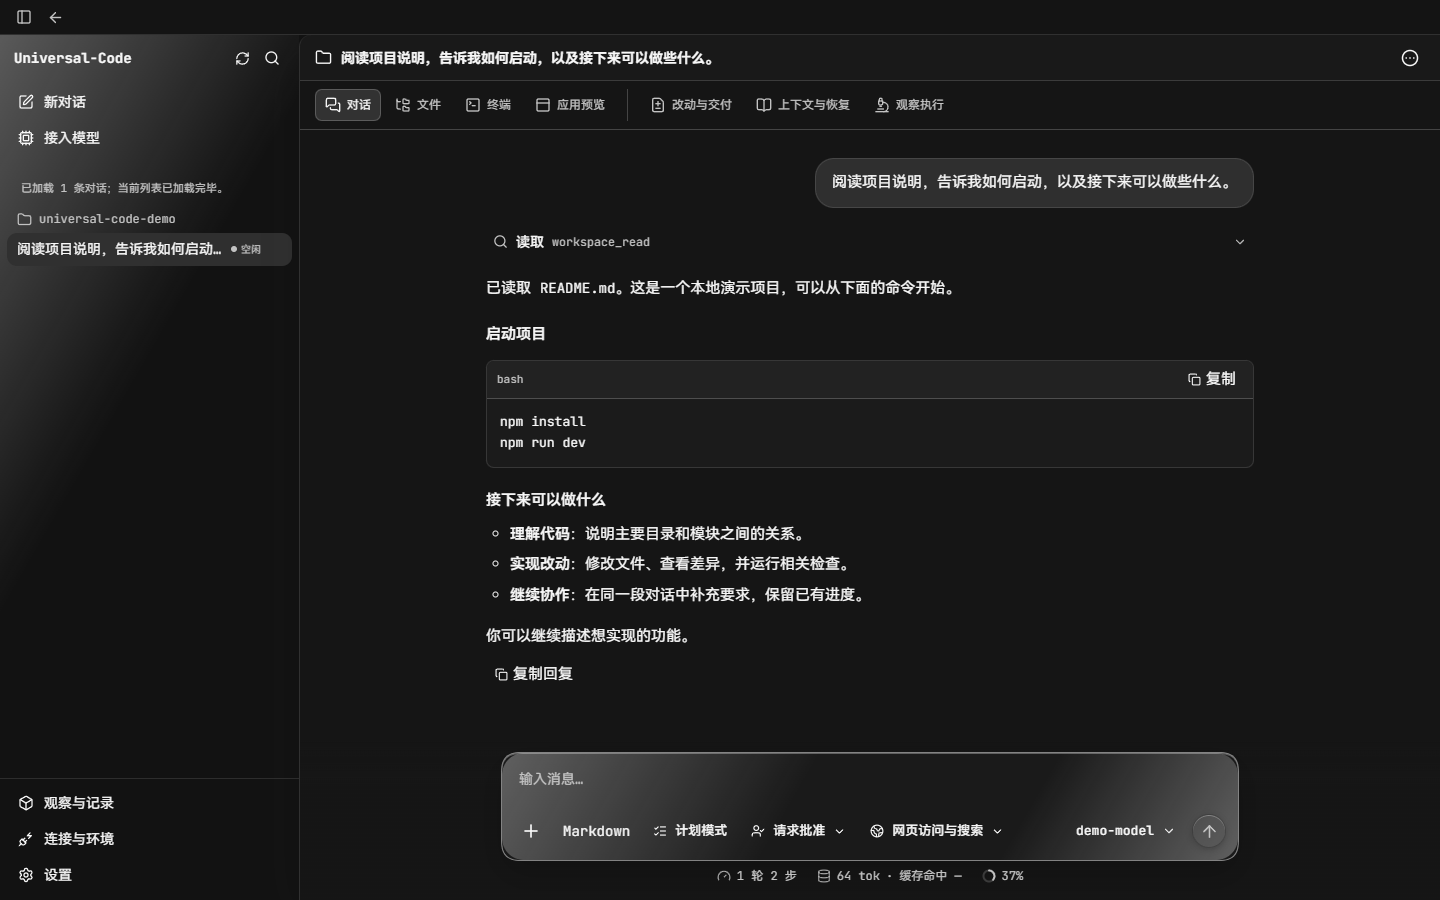
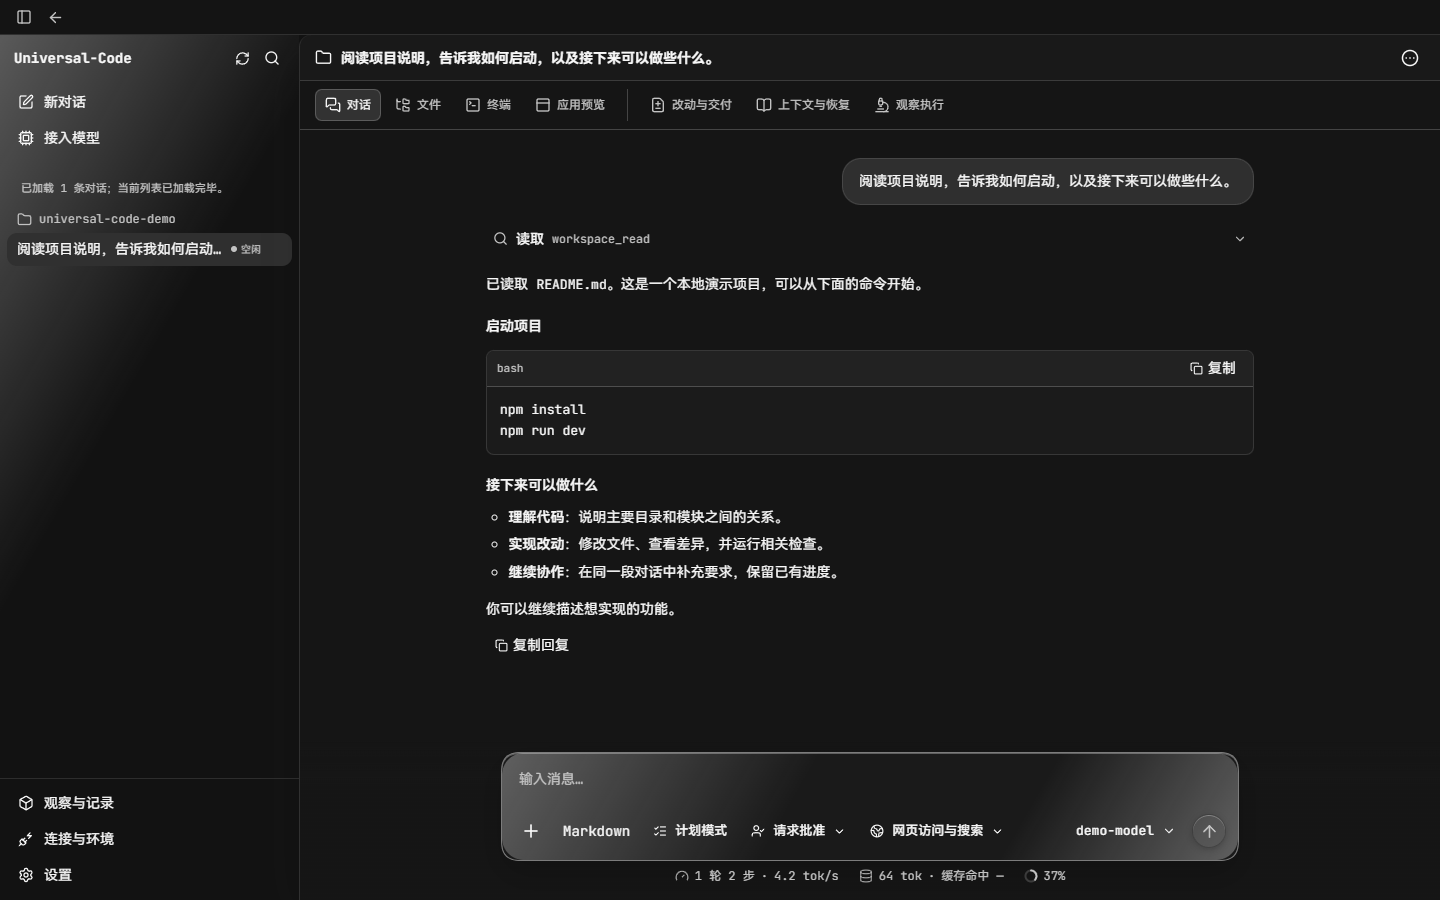
feat(chat): tighten typography and soften streaming text

diff --git a/web/src/v2/components/narrative-streaming.test.tsx b/web/src/v2/components/narrative-streaming.test.tsx
@@ -1,0 +1,83 @@
+import { cleanup, fireEvent, render, screen, waitFor } from "@testing-library/react";
+import { afterEach, expect, it, vi } from "vitest";
+import type { APIClient } from "../../api/client";
+import type { NarrativeEntry } from "../projection/narrative";
+import { V2Narrative } from "./narrative";
+
+afterEach(() => { cleanup(); vi.unstubAllGlobals(); });
+
+const client = {} as APIClient;
+const assistant = (text: string, provisional = true): NarrativeEntry => ({
+  id: "reply", kind: "assistant", text, createdAt: "", provisional, runId: "run-1",
+});
+
+it("reveals only new appends and does not replay a loaded, corrected or completed reply", () => {
+  const content = (text: string, provisional = true) =>
+    <V2Narrative client={client} entries={[assistant(text, provisional)]} threadID="thread-1" />;
+  const view = render(content("已读取说明。"));
+  const reveal = () => view.container.querySelector(".v2-stream-reveal");
+  expect(reveal()).toBeNull();
+  view.rerender(content("已读取说明。开始修改。"));
+  const first = reveal();
+  expect(first).toHaveTextContent("开始修改。");
+  view.rerender(content("已读取说明。开始修改。完成检查。"));
+  expect(reveal()).toHaveTextContent("完成检查。");
+  expect(reveal()).not.toBe(first);
+  expect(view.container.querySelectorAll(".v2-stream-reveal")).toHaveLength(1);
+  view.rerender(content("已更正。"));
+  expect(reveal()).toBeNull();
+  view.rerender(content("已更正。最终回复。", false));
+  expect(reveal()).toBeNull();
+  expect(screen.getByRole("button", { name: "复制回复" })).toBeInTheDocument();
+});
+
+it("keeps Markdown emphasis and file links intact as unfinished markup closes", () => {
+  const openFile = vi.fn();
+  const content = (text: string) => <V2Narrative client={client} entries={[assistant(text)]}
+    threadID="thread-1" onOpenFile={openFile} />;
+  const view = render(content("已有 **加粗"));
+  view.rerender(content("已有 **加粗**，查看 [README.md](README.md:3)。"));
+  expect(view.container.querySelector("strong")).toHaveTextContent("加粗");
+  expect(view.container.querySelector("strong .v2-stream-reveal")).toBeNull();
+  fireEvent.click(screen.getByRole("link", { name: "README.md" }));
+  expect(openFile).toHaveBeenCalledWith(expect.objectContaining({ path: "README.md", line: 3, runID: "run-1" }));
+  const link = screen.getByRole("link", { name: "README.md" });
+  view.rerender(content("已有 **加粗**，查看 [README.md](README.md:3)。继续。"));
+  expect(screen.getByRole("link", { name: "README.md" })).toBe(link);
+  expect(link.querySelector(".v2-stream-reveal")).toBeNull();
+});
+
+it("leaves code stable during streaming and copies the original code and reply", async () => {
+  const writeText = vi.fn().mockResolvedValue(undefined);
+  vi.stubGlobal("navigator", { clipboard: { writeText } });
+  const content = (text: string, provisional = true) =>
+    <V2Narrative client={client} entries={[assistant(text, provisional)]} threadID="thread-1" />;
+  const start = "说明。\n\n```ts\nconst one = 1;\n";
+  const full = start + "const two = 2;\n```\n\n完成 👩💻 é。";
+  const view = render(content(start));
+  const code = view.container.querySelector("pre");
+  view.rerender(content(full));
+  expect(view.container.querySelector("pre")).toBe(code);
+  expect(code?.querySelector(".v2-stream-reveal")).toBeNull();
+  fireEvent.click(screen.getByRole("button", { name: "复制代码" }));
+  await waitFor(() => expect(writeText).toHaveBeenLastCalledWith("const one = 1;\nconst two = 2;\n"));
+  view.rerender(content(full, false));
+  fireEvent.click(screen.getByRole("button", { name: "复制回复" }));
+  await waitFor(() => expect(writeText).toHaveBeenLastCalledWith(full));
+});
+
+it.each([
+  ["Emoji 👩", "Emoji 👩💻 后文", " 后文"],
+  ["Accent e", "Accent é 后文", " 后文"],
+  ["旧 &amp; 内容", "旧 &amp; 内容 新增", undefined],
+  ["旧 \\* 内容", "旧 \\* 内容 新增", undefined],
+] as const)("preserves graphemes and escaped source when appending to %s", (before, after, revealed) => {
+  const content = (text: string, provisional = true) =>
+    <V2Narrative client={client} entries={[assistant(text, provisional)]} threadID="thread-1" />;
+  const view = render(content(before));
+  view.rerender(content(after));
+  expect(view.container.querySelector(".v2-stream-reveal")?.textContent).toBe(revealed);
+  const streamedText = view.container.querySelector(".v2-assistant-turn > p")?.textContent;
+  view.rerender(content(after, false));
+  expect(view.container.querySelector(".v2-assistant-turn > p")?.textContent).toBe(streamedText);
+});

diff --git a/web/src/v2/styles.css b/web/src/v2/styles.css
@@ -765,7 +765,16 @@
 
 .v2-conversation-scroll { min-height: 0; overflow: auto; overflow-anchor: none; overscroll-behavior: contain; scrollbar-color: rgb(79 79 79 / 18%) transparent; scrollbar-width: thin; }
 .v2-conversation-content { margin: 0 auto; max-width: var(--v2-content-width); padding: 28px 0 38px; width: calc(100% - 40px); }
-.v2-narrative { display: grid; grid-template-columns: minmax(0, 1fr); gap: 22px; list-style: none; margin: 0; padding: 0; }
+.v2-narrative {
+  --prayu-prose-size: 14px;
+  --prayu-prose-leading: 1.625;
+  display: grid;
+  grid-template-columns: minmax(0, 1fr);
+  gap: 22px;
+  list-style: none;
+  margin: 0;
+  padding: 0;
+}
 .v2-narrative > li { min-width: 0; }
 .v2-user-turn { display: flex; justify-content: flex-end; }
 .v2-message-status { color: var(--v2-muted); display: block; font-size: 11px; margin-top: 6px; }
@@ -783,25 +792,42 @@
   white-space: pre-wrap;
 }
 .v2-user-markdown { white-space: normal; }
-:is(.v2-assistant-turn, .v2-user-markdown) { font-size: var(--prayu-prose-size); font-weight: var(--prayu-weight-body); line-height: var(--prayu-prose-leading); max-width: 100%; overflow-wrap: anywhere; }
+:is(.v2-assistant-turn, .v2-user-markdown) {
+  font-size: var(--prayu-prose-size);
+  font-weight: var(--prayu-weight-body);
+  letter-spacing: 0;
+  line-height: var(--prayu-prose-leading);
+  max-width: 100%;
+  overflow-wrap: anywhere;
+  word-break: normal;
+}
 :is(.v2-assistant-turn, .v2-user-markdown) > :first-child { margin-top: 0; }
 :is(.v2-assistant-turn, .v2-user-markdown) > :last-child { margin-bottom: 0; }
 :is(.v2-assistant-turn, .v2-user-markdown) p { margin: 0 0 .85em; }
+:is(.v2-assistant-turn:not(.is-provisional), .v2-user-markdown) :is(p, li) { text-wrap: pretty; }
 :is(.v2-assistant-turn, .v2-user-markdown) :is(h1, h2, h3, h4, h5, h6) {
   font-weight: var(--prayu-weight-heading);
   line-height: 1.4;
   letter-spacing: 0;
   margin: 1.5em 0 .6em;
+  text-wrap: balance;
 }
 :is(.v2-assistant-turn, .v2-user-markdown) h1 { font-size: 1.35em; }
 :is(.v2-assistant-turn, .v2-user-markdown) h2 { font-size: 1.2em; }
 :is(.v2-assistant-turn, .v2-user-markdown) :is(h3, h4, h5, h6) { font-size: 1em; }
 :is(.v2-assistant-turn, .v2-user-markdown) :is(strong, b) { font-weight: var(--prayu-weight-heading); }
+:is(.v2-assistant-turn, .v2-user-markdown) a:not(.v2-file-link) {
+  color: inherit;
+  text-decoration: underline;
+  text-decoration-color: color-mix(in srgb, currentColor 55%, transparent);
+  text-underline-offset: .18em;
+}
+:is(.v2-assistant-turn, .v2-user-markdown) a:not(.v2-file-link):hover { text-decoration-color: currentColor; }
 :is(.v2-assistant-turn, .v2-user-markdown) :is(ul, ol) { margin: .7em 0 1em; padding-inline-start: 1.6em; }
 :is(.v2-assistant-turn, .v2-user-markdown) li + li { margin-top: .35em; }
 :is(.v2-assistant-turn, .v2-user-markdown) li > p { margin-block: .35em; }
 :is(.v2-assistant-turn, .v2-user-markdown) blockquote { border-inline-start: 2px solid var(--v2-border-strong); color: var(--v2-muted); margin: 1em 0; padding-inline-start: 1em; }
-:is(.v2-assistant-turn, .v2-user-markdown) table { display: block; max-width: 100%; overflow-x: auto; border-collapse: collapse; font-size: 13px; line-height: 1.6; }
+:is(.v2-assistant-turn, .v2-user-markdown) table { display: block; max-width: 100%; overflow-x: auto; border-collapse: collapse; font-size: 13px; font-variant-numeric: tabular-nums; line-height: 1.6; }
 :is(.v2-assistant-turn, .v2-user-markdown) :is(th, td) { border-bottom: 1px solid var(--v2-border); padding: 9px 12px; text-align: start; vertical-align: top; }
 :is(.v2-assistant-turn, .v2-user-markdown) th { font-size: inherit; font-weight: var(--prayu-weight-heading); letter-spacing: 0; text-transform: none; }
 :is(.v2-assistant-turn, .v2-user-markdown) pre {
@@ -816,6 +842,11 @@
 :is(.v2-assistant-turn, .v2-user-markdown) .v2-markdown-code-block { margin-block: 1em; }
 :is(.v2-assistant-turn, .v2-user-markdown) .v2-markdown-code-block pre { background: transparent; border-radius: 0; font-size: var(--prayu-code-size); line-height: var(--prayu-code-leading); margin: 0; }
 :is(.v2-assistant-turn, .v2-user-markdown) .v2-markdown-code-block pre code { font-size: inherit; }
+.v2-stream-reveal { animation: v2-stream-reveal 150ms ease-out both; }
+@keyframes v2-stream-reveal {
+  from { opacity: .25; filter: blur(.6px); }
+  to { opacity: 1; filter: blur(0); }
+}
 .v2-activity-turn { margin: -3px 0; }
 .v2-activity { color: var(--v2-muted); }
 .v2-activity > summary {

diff --git a/web/src/v2/components/narrative.tsx b/web/src/v2/components/narrative.tsx
@@ -1,6 +1,6 @@
 import { Children, isValidElement, memo, useMemo, useState } from "react";
 import { replaceEqualDeep } from "@tanstack/react-query";
-import ReactMarkdown, { defaultUrlTransform } from "react-markdown";
+import ReactMarkdown, { defaultUrlTransform, type Components } from "react-markdown";
 import remarkGfm from "remark-gfm";
 import { Check, Copy } from "lucide-react";
 import { remarkCjkAutolinks } from "../../components/remark-cjk-autolinks";
@@ -9,6 +9,7 @@ import type { NarrativeEntry } from "../projection/narrative";
 import { V2ImagePreview } from "./image-input";
 import { V2FileAttachments } from "./file-input";
 import { V2ActivityGroup } from "./activity-detail";
+import { rehypeStreamReveal } from "./stream-reveal";
 
 export interface FileLinkTarget {
   path: string;
@@ -141,38 +142,54 @@ interface NarrativeRowProps {
   }) => void;
 }
 
+const StreamRevealSpan: Components["span"] = ({ node, children, ...props }) =>
+  <span key={String(node?.properties.dataStreamStart ?? "")} {...props}>{children}</span>;
+
 function MessageMarkdown({ entry, onOpenFile }: {
   entry: Extract<NarrativeEntry, { kind: "user" | "assistant" }>;
   onOpenFile: NarrativeRowProps["onOpenFile"];
 }) {
+  const live = entry.kind === "assistant" && entry.provisional;
+  const [reveal, setReveal] = useState({ text: entry.text, live, start: undefined as number | undefined });
+  if (reveal.text !== entry.text || reveal.live !== live) {
+    // Only an append to an already visible live message animates. Opening a
+    // thread, correcting text and replacing it with durable output stay immediate.
+    setReveal({ text: entry.text, live, start: live && reveal.live &&
+      entry.text.length > reveal.text.length && entry.text.startsWith(reveal.text)
+      ? reveal.text.length : undefined });
+  }
+  const runID = "runId" in entry ? entry.runId : undefined;
+  const components = useMemo<Components>(() => ({
+    a: ({ node: _node, href, children, ...props }) => {
+      const fileLink = parseProjectFileLink(href ?? "");
+      if (fileLink) {
+        return <a
+          href={href}
+          className="v2-file-link"
+          title={`在工作区中打开 ${fileLink.path}${fileLink.line ? ` (第 ${fileLink.line} 行)` : ""}`}
+          onClick={(event) => {
+            event.preventDefault();
+            onOpenFile?.({
+              path: fileLink.path,
+              line: fileLink.line,
+              runID,
+              triggerElement: event.currentTarget,
+            });
+          }}
+          {...props}
+        >{children}</a>;
+      }
+      return <a href={href} target="_blank" rel="noreferrer noopener" {...props}>{children}</a>;
+    },
+    pre: ({ node: _node, children, ...props }) => <MarkdownCodeBlock {...props}>{children}</MarkdownCodeBlock>,
+    span: StreamRevealSpan,
+  }), [onOpenFile, runID]);
   return <ReactMarkdown
-      remarkPlugins={[remarkGfm, remarkCjkAutolinks]}
-      urlTransform={(url) => (parseProjectFileLink(url) ? url : defaultUrlTransform(url))}
-      components={{
-        a: ({ href, children, ...props }) => {
-          const fileLink = parseProjectFileLink(href ?? "");
-          if (fileLink) {
-            return <a
-              href={href}
-              className="v2-file-link"
-              title={`在工作区中打开 ${fileLink.path}${fileLink.line ? ` (第 ${fileLink.line} 行)` : ""}`}
-              onClick={(event) => {
-                event.preventDefault();
-                onOpenFile?.({
-                  path: fileLink.path,
-                  line: fileLink.line,
-                  runID: "runId" in entry ? entry.runId : undefined,
-                  triggerElement: event.currentTarget,
-                });
-              }}
-              {...props}
-            >{children}</a>;
-          }
-          return <a href={href} target="_blank" rel="noreferrer noopener" {...props}>{children}</a>;
-        },
-        pre: ({ children, ...props }) => <MarkdownCodeBlock {...props}>{children}</MarkdownCodeBlock>,
-      }}
-    >{entry.text}</ReactMarkdown>;
+    remarkPlugins={[remarkGfm, remarkCjkAutolinks]}
+    rehypePlugins={reveal.start === undefined ? [] : [[rehypeStreamReveal, { start: reveal.start }]]}
+    urlTransform={(url) => (parseProjectFileLink(url) ? url : defaultUrlTransform(url))}
+    components={components}
+  >{entry.text}</ReactMarkdown>;
 }
 
 const NarrativeRow = memo(function NarrativeRow({ client, entry, threadID, onOpenFile }: NarrativeRowProps) {

diff --git a/web/src/v2/components/stream-reveal.ts b/web/src/v2/components/stream-reveal.ts
@@ -1,0 +1,41 @@
+import type { Element, Root, RootContent, Text } from "hast";
+
+const graphemes = new Intl.Segmenter(undefined, { granularity: "grapheme" });
+
+// Decorate the parsed Markdown, keeping its links, emphasis and copyable text.
+// At most the latest append is wrapped; history never accumulates character spans.
+export function rehypeStreamReveal({ start }: { start: number }) {
+  return (tree: Root, file: { value: unknown }) => {
+    const source = String(file.value);
+    const visit = (parent: Root | Element) => {
+      parent.children = parent.children.flatMap((node): RootContent[] => {
+        if (node.type === "element") {
+          if (node.tagName !== "pre" && node.tagName !== "code") visit(node);
+          return [node];
+        }
+        if (node.type !== "text") return [node];
+        const from = node.position?.start.offset;
+        const to = node.position?.end.offset;
+        if (from === undefined || to === undefined || to <= start) return [node];
+        let cut = 0;
+        if (from < start) {
+          // Entities and escapes change source offsets. Do not replay older text
+          // when its rendered value cannot be split at the source boundary.
+          if (node.value !== source.slice(from, to)) return [node];
+          cut = node.value.length;
+          for (const segment of graphemes.segment(node.value)) {
+            if (segment.index >= start - from) { cut = segment.index; break; }
+          }
+        }
+        if (cut === node.value.length) return [node];
+        const prefix: Text[] = cut ? [{ type: "text", value: node.value.slice(0, cut) }] : [];
+        return [...prefix, {
+          type: "element", tagName: "span",
+          properties: { className: ["v2-stream-reveal"], dataStreamStart: start },
+          children: [{ type: "text", value: node.value.slice(cut) }],
+        }];
+      });
+    };
+    visit(tree);
+  };
+}
